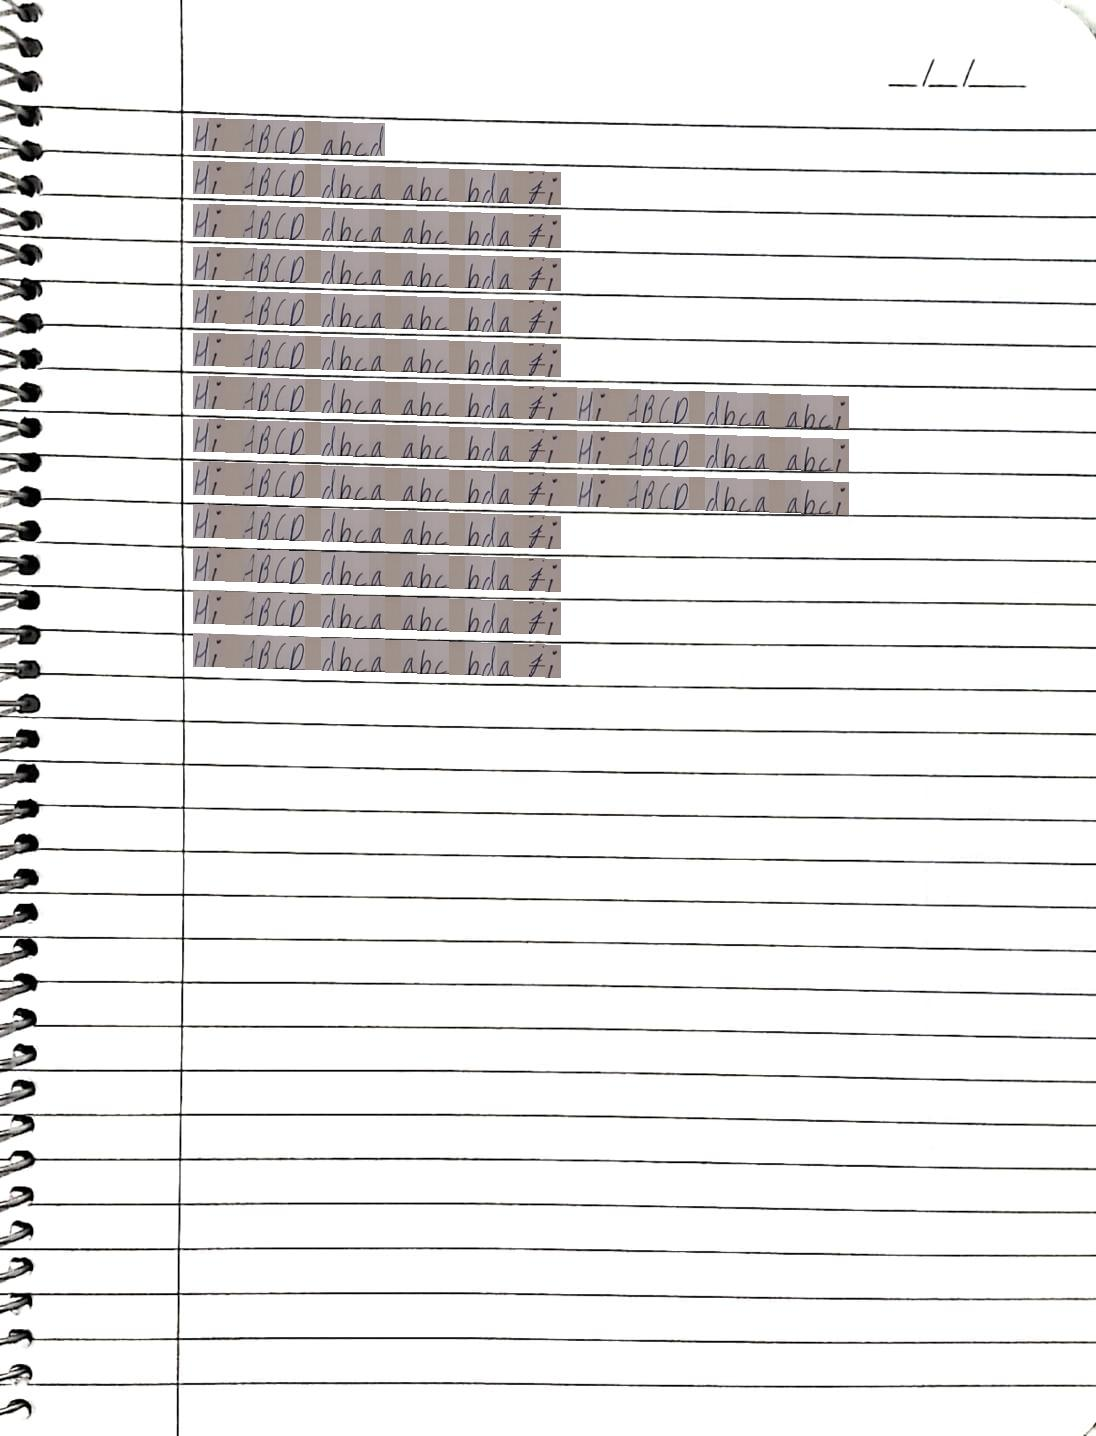
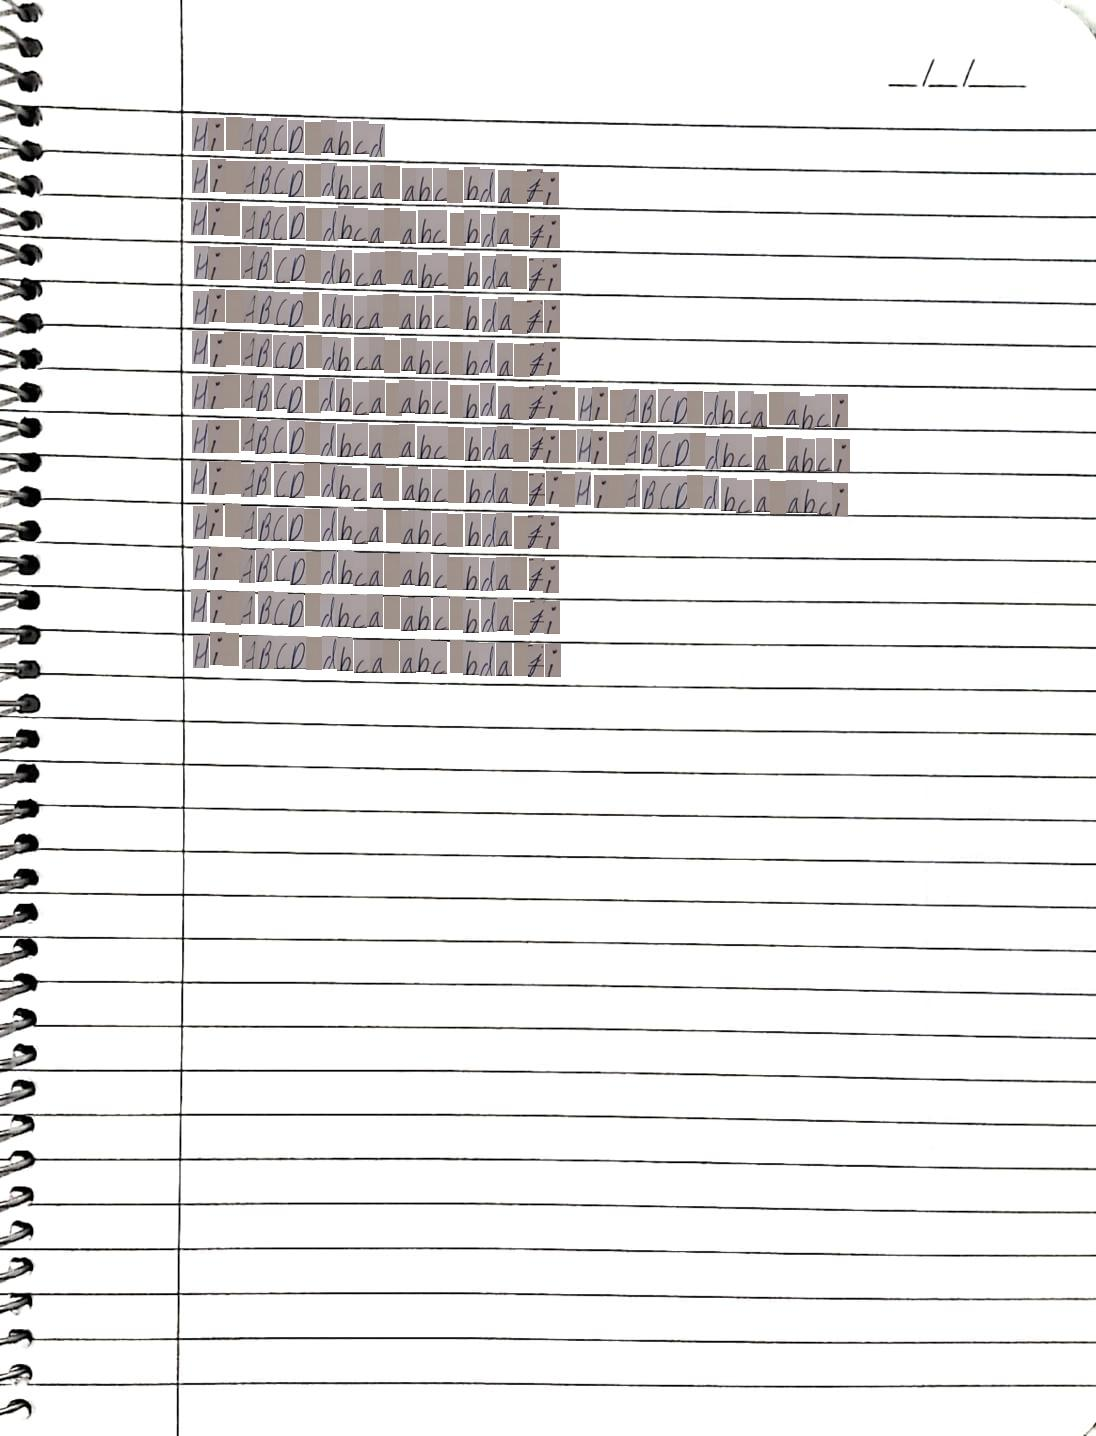
added inregularity

Changed region(s): [[0.1551, 0.0919, 0.7755, 0.4903]]

diff --git a/main.py b/main.py
@@ -1,4 +1,5 @@
 from PIL import Image
+from numpy import random
 
 
 
@@ -36,7 +37,11 @@ def createImage(text: list[str]):
 
             scaled = img.resize((width, height))
 
-            image.paste(scaled, (width * idx + x_offset, height * line_no + y_offset + line_gap*line_no + int(idx * slope)))
+            inregularity_x = random.randint(-2, 2)
+            inregularity_y = random.randint(-2, 2)
+
+
+            image.paste(scaled, (width * idx + x_offset + inregularity_x , height * line_no + y_offset + line_gap*line_no + int(idx * slope) + inregularity_y))
     
     image.save("output.jpg")
 
